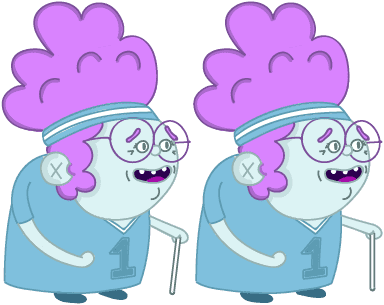
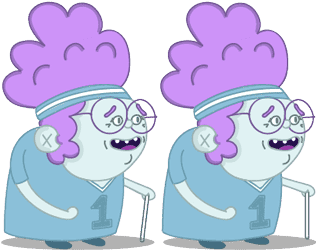
update mamie sprite

diff --git a/src/states/Athletics/constant.js b/src/states/Athletics/constant.js
@@ -13,8 +13,8 @@ module.exports = {
     heightFix: -70
   },
   mamieSprite: {
-    width: 384,
-    height: 305,
+    width: 316,
+    height: 250,
     nbSprites: 2,
     spriteSpeed: 8,
     speed: -0.8,
